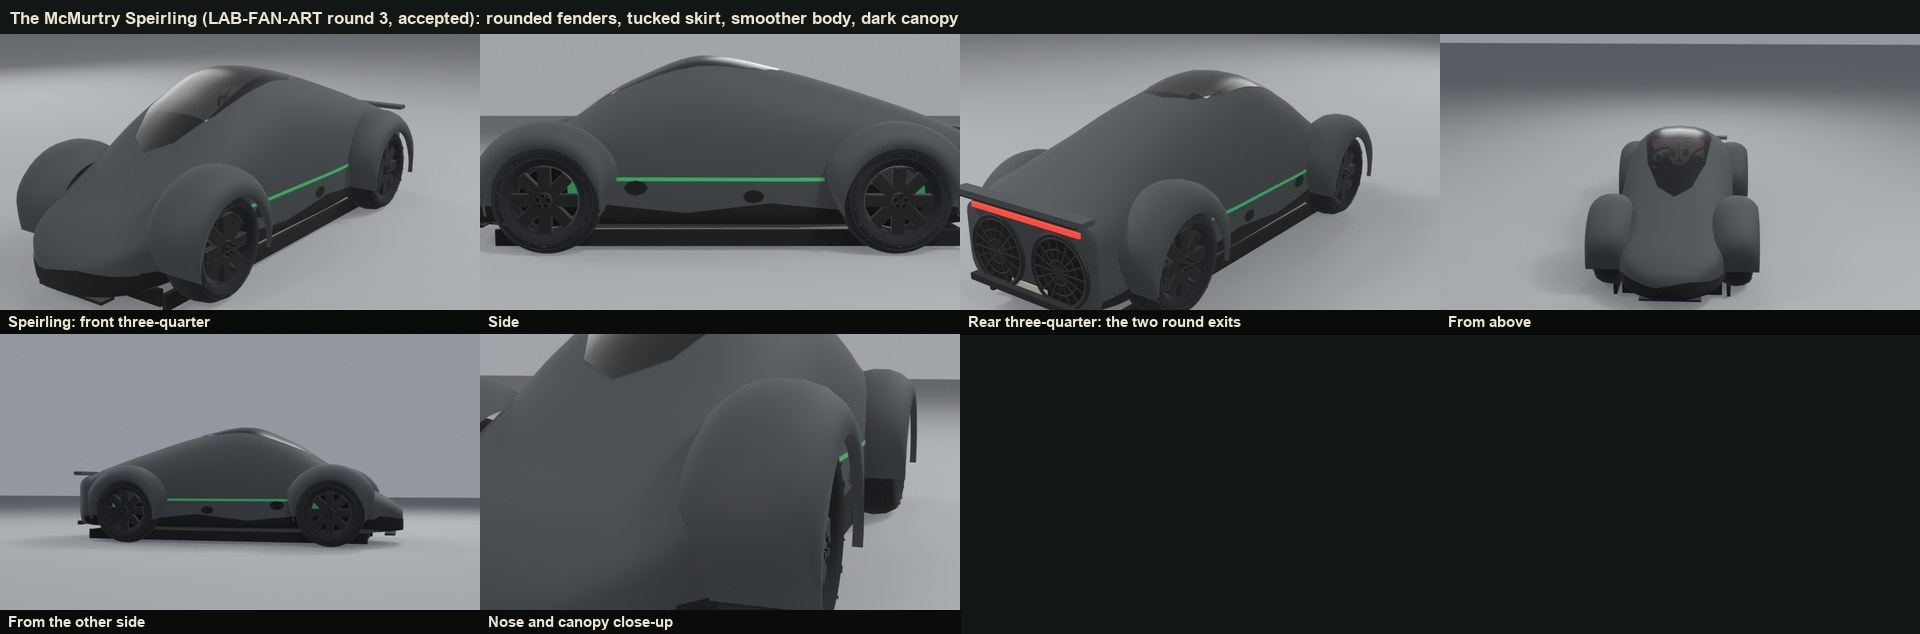
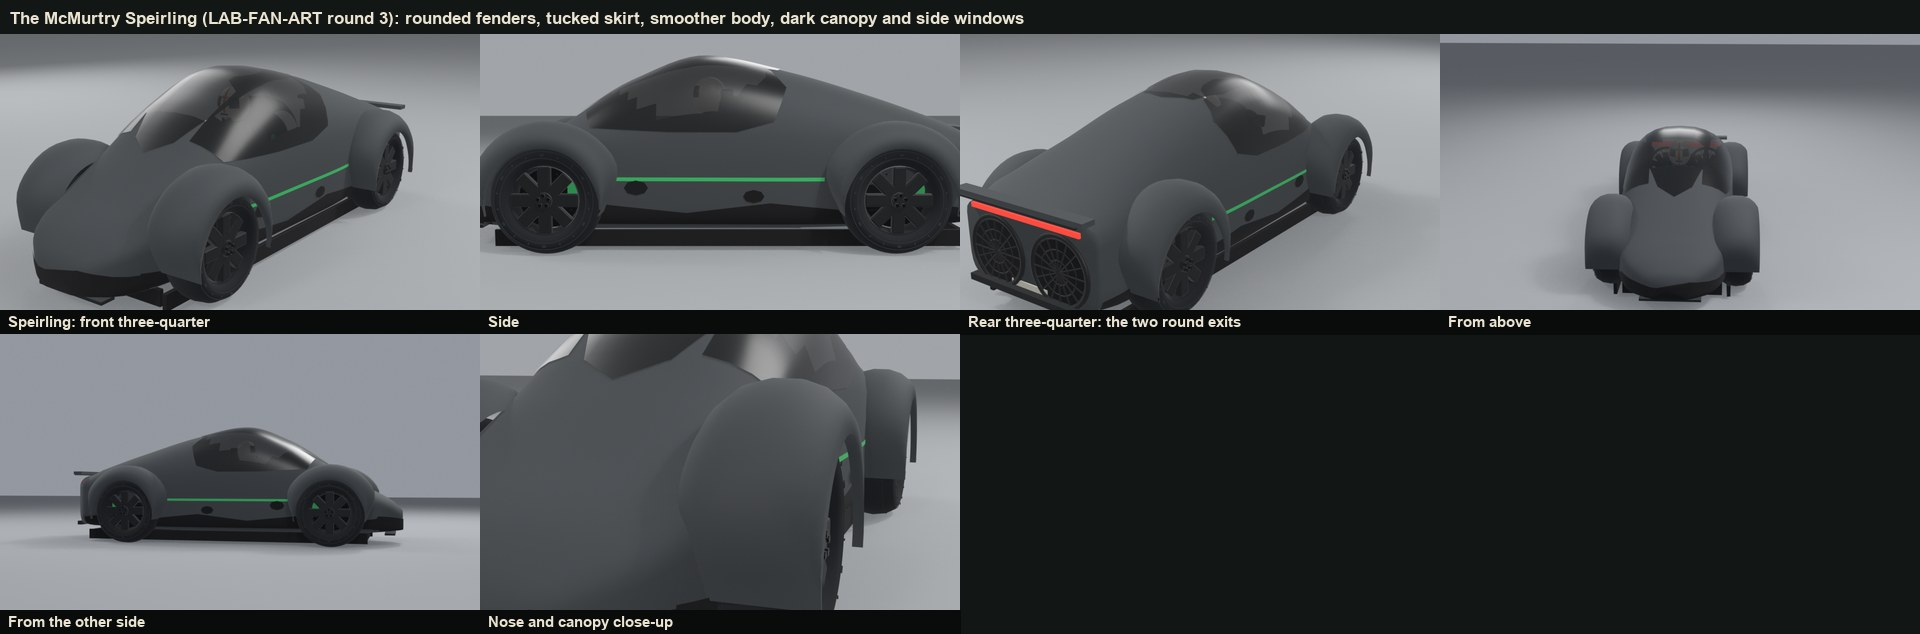
LAB-FAN-ART: restore the dark side windows (the canopy glass down the cabin sides)

diff --git a/src/speirling-vehicle.js b/src/speirling-vehicle.js
@@ -15,7 +15,7 @@ import { prepareVehicleDamage } from './vehicles.js';
 // halves covered by pods on the body, no exposed suspension. Matte charcoal with a
 // thin green line along the side.
 export const SPEIRLING_VEHICLE_DIMENSIONS = Object.freeze({
-  mcmurtry_speirling: Object.freeze({ width: 1.45, length: 3.36, height: 1.21, wheelRadius: .33 }),
+  mcmurtry_speirling: Object.freeze({ width: 1.45, length: 3.37, height: 1.2, wheelRadius: .33 }),
 });
 const { materials, batch, cockpit, wheels, fitSurfacePatch } = originalVehicleParts;
 const AXLES = Object.freeze([1.02, -1.04]);
@@ -51,7 +51,7 @@ export function createSpeirlingVehicle({ key = 'mcmurtry_speirling', color = 0x3
     brakeLights: [], boostFlames: [], damageMeshes: [], size: { ...SPEIRLING_VEHICLE_DIMENSIONS[key] },
     ultimateKey: key, fans: [],
     designFeatures: Object.freeze(['teardrop-coupe', 'jet-canopy', 'twin-round-fan-exits', 'floor-skirt', 'wheel-pods', 'low-nose', 'cut-off-tail']),
-    damageSpace: { scale: [.9, .88, 1.0], offset: [0, 0, 0], frontGlassZ: .50, rearGlassZ: -.18 },
+    damageSpace: { scale: [.9, .80, 1.0], offset: [0, 0, 0], frontGlassZ: .50, rearGlassZ: -.18 },
   });
 
   teardrop(b, m);
@@ -74,7 +74,10 @@ export function createSpeirlingVehicle({ key = 'mcmurtry_speirling', color = 0x3
 // three corners lie inside it is dropped), and the canopy itself: dark glass fitted
 // over the same surface, clipped to a jet-fighter outline, so glass and body are
 // one smooth shape and the driver shows only faintly through the tint.
-const opening = (x, y, z) => Math.abs(x) < .28 && z > -.40 && z < .92 && y > .76 + .55 * Math.pow((z - .25) / .75, 2);
+const opening = (y, z) => z > -.40 && z < .92 && y > .76 + .55 * Math.pow((z - .25) / .75, 2);
+// The side windows: the canopy's glass continuing down the cabin sides, shaped like a door's glass
+// (a low front corner, a straight sill, a rounded rear and a high curved top edge).
+const CANOPY_SIDE = [[.74, .78], [.72, .3], [.72, -.1], [.78, -.32], [.98, -.4], [1.1, -.3], [1.17, -.1], [1.15, .3], [1.0, .62], [.86, .84]];
 const CANOPY_TOP = [[0, .98], [.15, .88], [.26, .62], [.31, .2], [.29, -.15], [.2, -.36], [0, -.43], [-.2, -.36], [-.29, -.15], [-.31, .2], [-.26, .62], [-.15, .88]];
 // The body shell: a smooth loft through the stations with a 48-point cross-section,
 // rounded at the top and squarer at the floor, widest at the shoulder, so there are
@@ -120,13 +123,14 @@ function teardrop(b, m) {
   const shell = smoothShell(SPEIRLING_SECTIONS), p = shell.attributes.position, index = shell.index, kept = [];
   for (let i = 0; i < index.count; i += 3) {
     const ids = [index.getX(i), index.getX(i + 1), index.getX(i + 2)];
-    if (ids.every(k => opening(p.getX(k), p.getY(k), p.getZ(k)))) continue;
+    if (ids.every(k => opening(p.getY(k), p.getZ(k)))) continue;
     kept.push(...ids);
   }
   const paint = new THREE.BufferGeometry(); paint.setAttribute('position', p.clone()); paint.setIndex(kept); paint.computeVertexNormals();
   b.add(paint, m.paint); paint.dispose();
   const surface = [{ geometry: shell }];
   fitSurfacePatch(surface, b, m.glass, CANOPY_TOP, 'top', 1, .0, .006);
+  for (const side of [-1, 1]) fitSurfacePatch(surface, b, m.glass, CANOPY_SIDE, 'side', side, .0, .006);
   b.box(m.carbon, [.74, .04, 1.4], [0, .14, .2], [0, 0, 0], 0);       // a dark liner so the tub reads as a cockpit
   shell.dispose();
 }

diff --git a/docs/board/looks/speirling/round-3-review.md b/docs/board/looks/speirling/round-3-review.md
@@ -44,8 +44,15 @@ Claude asked for exactly four changes.
 Size: 48,162 triangles and 56 draws (cap this round: 50,000 triangles).
 Still true: this session could not open photographs.
 
-## Verdict
+## After the sheet
 
-Claude: accepted at round 3; stray dark side patches removed.
+Claude first called round 3 accepted and asked for the dark side patches to go; they
+were the side windows, so they are back: the canopy's glass continues down the cabin
+sides in the shape of a door's glass (the carbon intake panel on the rear flank stays
+out). Then Kyle looked: round 3 is closer to the real car than round 1 but not there
+yet, and his word lifts the three-round cap. Round 4 will be built from real
+photographs, which Claude is gathering.
 
-After the verdict the dark rectangular patches beside the canopy and on the rear flanks (the side-glass overlays and a carbon intake panel) were removed, and the canopy opening was limited to the roof's centre, so the body is one clean charcoal surface; the side glass-crack zones now land on the canopy glass's edge. The width is declared at 1.45 m (measured).
+Size now: 49,016 triangles and 56 draws (cap 50,000); declared 1.45 x 3.37 x 1.2 m.
+Browser note: this session's browser tool still failed its policy check when tried
+again, so no photograph was looked at here.

diff --git a/docs/changes/LAB-FAN-ART.md b/docs/changes/LAB-FAN-ART.md
@@ -3,7 +3,7 @@
 Switch `lab` (dev); nothing here is registered in the roster or the game yet
 (LAB-FAN adds `mcmurtry_speirling` to the config and the router, LAB-FAN-VIEW places
 the blueprint and the REVERSE switch). Built by the local Sonnet session on
-`claude/lab-fan-art`; Claude judged each look round (three of three used).
+`claude/lab-fan-art`; Claude judged each look round (round 4 pending: Kyle lifted the three-round cap).
 
 ## Design questions settled in writing, before code
 
@@ -27,7 +27,7 @@ the blueprint and the REVERSE switch). Built by the local Sonnet session on
 
 ## What was built
 
-- `src/speirling-vehicle.js`: 1.45 x 3.36 x 1.21 m, 48,162 triangles and 56 draws
+- `src/speirling-vehicle.js`: 1.45 x 3.37 x 1.2 m, 49,016 triangles and 56 draws
   (cap 50,000 triangles; Jesko's 73,600 / 66 for the other cars).
 - `public/assets/models/speirling/project-fan.glb` and `manifest.json` (361 KB).
 - `tools/art/speirling-blueprint.mjs`, `tools/art/speirling-sheet.py`;
